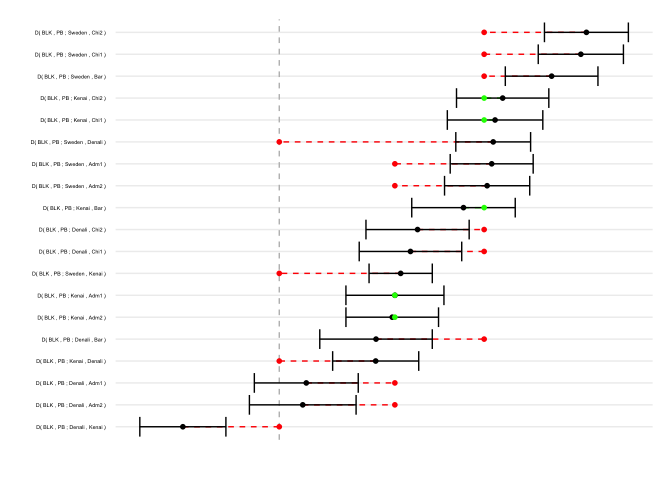
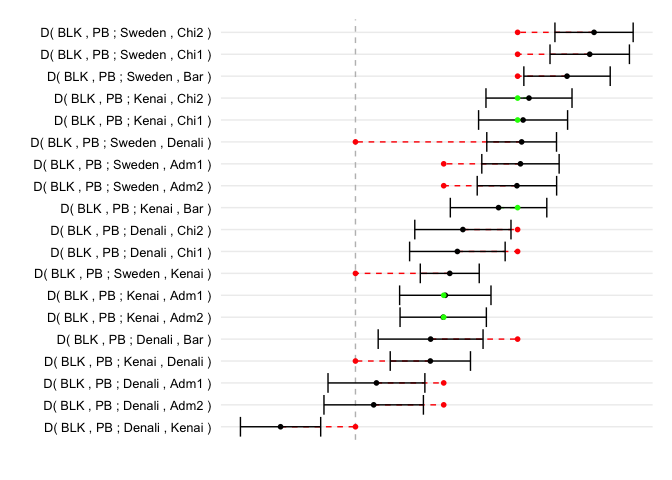
More complex example and better fitting graph for bears data.

diff --git a/README.md b/README.md
@@ -136,7 +136,7 @@ fit
 #> Call:
 #> fit_graph(bears, bears_graph)
 #> 
-#> Sum of squared error: 0.05616389
+#> Sum of squared error: 0.05615466
 ```
 
 The object it returns contains an environment that contains the fitted parameters and a data frame containing the original data together with an extra column, graph\_f4, containing the fitted values.
@@ -147,21 +147,21 @@ You can get the fitted values by calling the *summary* function.
 summary(fit)
 #> $edges
 #>        edge_R_BLK       edge_R_PBBB       edge_PBBB_z   edge_PBBB_pb_a2 
-#>         0.1374472         0.6189445         0.5677139         0.1911302 
+#>         0.5539167         0.1963250         0.1608795         0.1424080 
 #>     edge_Adm_Adm1     edge_Adm_Adm2     edge_Chi_Chi1     edge_Chi_Chi2 
-#>         0.4159387         0.4492377         0.5569757         0.4682324 
+#>         0.6185878         0.3357848         0.7696293         0.5050755 
 #>       edge_BC_Bar       edge_BC_Chi      edge_ABC_Adm    edge_ABC_bc_a1 
-#>         0.2611194         0.5625199         0.3962664         0.3634435 
+#>         0.5504637         0.6593099         0.4986724         0.5622732 
 #>     edge_x_Denali     edge_x_abc_a2      edge_y_Kenai          edge_y_x 
-#>         0.3819050         0.3557575         0.2013584         0.3127119 
+#>         0.3544563         0.3903505         0.5804542         0.4153093 
 #>     edge_z_Sweden          edge_z_y     edge_bc_a1_BC     edge_pb_a1_PB 
-#>         0.3727864         0.5984228         0.4063723         0.4333713 
+#>         0.4497233         0.3581726         0.3330481         0.3114385 
 #>  edge_pb_a1_bc_a1   edge_abc_a2_ABC  edge_pb_a2_pb_a1 edge_pb_a2_abc_a2 
-#>         0.4185179         0.5575059         0.2521746         0.3125842 
+#>         0.3208878         0.4422588         0.2124461         0.3300489 
 #> 
 #> $admixture_proportions
 #>         a         b 
-#> 0.1410708 0.3581707
+#> 0.1958904 0.4724908
 ```
 
 This function also returns the fitted values as a list, so you can assign the result to an object if you need to access it later.
@@ -171,19 +171,19 @@ You can also get the fitted parameters using the generic *coef* or *coefficients
 ``` r
 coef(fit)
 #>        edge_R_BLK       edge_R_PBBB       edge_PBBB_z   edge_PBBB_pb_a2 
-#>         0.1374472         0.6189445         0.5677139         0.1911302 
+#>         0.5539167         0.1963250         0.1608795         0.1424080 
 #>     edge_Adm_Adm1     edge_Adm_Adm2     edge_Chi_Chi1     edge_Chi_Chi2 
-#>         0.4159387         0.4492377         0.5569757         0.4682324 
+#>         0.6185878         0.3357848         0.7696293         0.5050755 
 #>       edge_BC_Bar       edge_BC_Chi      edge_ABC_Adm    edge_ABC_bc_a1 
-#>         0.2611194         0.5625199         0.3962664         0.3634435 
+#>         0.5504637         0.6593099         0.4986724         0.5622732 
 #>     edge_x_Denali     edge_x_abc_a2      edge_y_Kenai          edge_y_x 
-#>         0.3819050         0.3557575         0.2013584         0.3127119 
+#>         0.3544563         0.3903505         0.5804542         0.4153093 
 #>     edge_z_Sweden          edge_z_y     edge_bc_a1_BC     edge_pb_a1_PB 
-#>         0.3727864         0.5984228         0.4063723         0.4333713 
+#>         0.4497233         0.3581726         0.3330481         0.3114385 
 #>  edge_pb_a1_bc_a1   edge_abc_a2_ABC  edge_pb_a2_pb_a1 edge_pb_a2_abc_a2 
-#>         0.4185179         0.5575059         0.2521746         0.3125842 
+#>         0.3208878         0.4422588         0.2124461         0.3300489 
 #>                 a                 b 
-#>         0.1410708         0.3581707
+#>         0.1958904         0.4724908
 ```
 
 To get the fitted predictions, together with the data used for fitting, use the *fitted* function.
@@ -191,21 +191,21 @@ To get the fitted predictions, together with the data used for fitting, use the 
 ``` r
 fitted(fit)
 #>      W  X      Y      Z       D Z.value   graph_f4
-#> 1  BLK PB Sweden   Adm1  0.1258    12.8 0.06845723
-#> 2  BLK PB  Kenai   Adm1  0.0685     5.9 0.06845723
-#> 3  BLK PB Denali   Adm1  0.0160     1.3 0.06845723
-#> 4  BLK PB Sweden   Adm2  0.1231    12.2 0.06845723
-#> 5  BLK PB  Kenai   Adm2  0.0669     6.1 0.06845723
-#> 6  BLK PB Denali   Adm2  0.0139     1.1 0.06845723
-#> 7  BLK PB Sweden    Bar  0.1613    14.7 0.12133730
-#> 8  BLK PB  Kenai    Bar  0.1091     8.9 0.12133730
-#> 9  BLK PB Denali    Bar  0.0573     4.3 0.12133730
-#> 10 BLK PB Sweden   Chi1  0.1786    17.7 0.12133730
-#> 11 BLK PB  Kenai   Chi1  0.1278    11.3 0.12133730
-#> 12 BLK PB Denali   Chi1  0.0777     6.4 0.12133730
-#> 13 BLK PB Sweden   Chi2  0.1819    18.3 0.12133730
-#> 14 BLK PB  Kenai   Chi2  0.1323    12.1 0.12133730
-#> 15 BLK PB Denali   Chi2  0.0819     6.7 0.12133730
+#> 1  BLK PB Sweden   Adm1  0.1258    12.8 0.06728645
+#> 2  BLK PB  Kenai   Adm1  0.0685     5.9 0.06728645
+#> 3  BLK PB Denali   Adm1  0.0160     1.3 0.06728645
+#> 4  BLK PB Sweden   Adm2  0.1231    12.2 0.06728645
+#> 5  BLK PB  Kenai   Adm2  0.0669     6.1 0.06728645
+#> 6  BLK PB Denali   Adm2  0.0139     1.1 0.06728645
+#> 7  BLK PB Sweden    Bar  0.1613    14.7 0.12361816
+#> 8  BLK PB  Kenai    Bar  0.1091     8.9 0.12361816
+#> 9  BLK PB Denali    Bar  0.0573     4.3 0.12361816
+#> 10 BLK PB Sweden   Chi1  0.1786    17.7 0.12361816
+#> 11 BLK PB  Kenai   Chi1  0.1278    11.3 0.12361816
+#> 12 BLK PB Denali   Chi1  0.0777     6.4 0.12361816
+#> 13 BLK PB Sweden   Chi2  0.1819    18.3 0.12361816
+#> 14 BLK PB  Kenai   Chi2  0.1323    12.1 0.12361816
+#> 15 BLK PB Denali   Chi2  0.0819     6.7 0.12361816
 #> 16 BLK PB Sweden Denali  0.1267    14.3 0.00000000
 #> 17 BLK PB  Kenai Denali  0.0571     5.6 0.00000000
 #> 18 BLK PB Sweden  Kenai  0.0719     9.6 0.00000000
